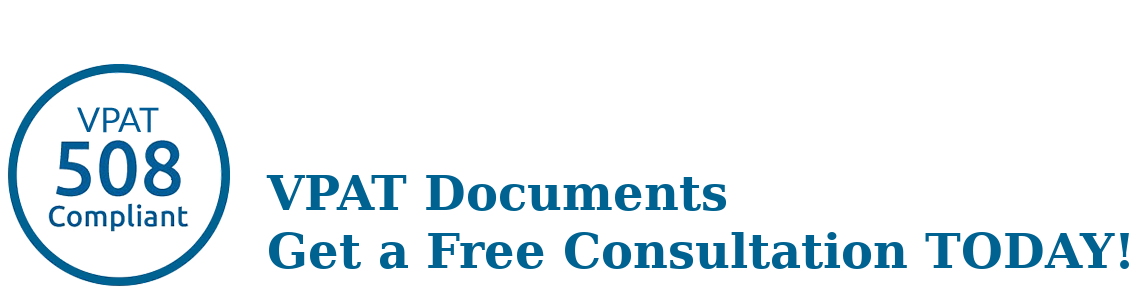
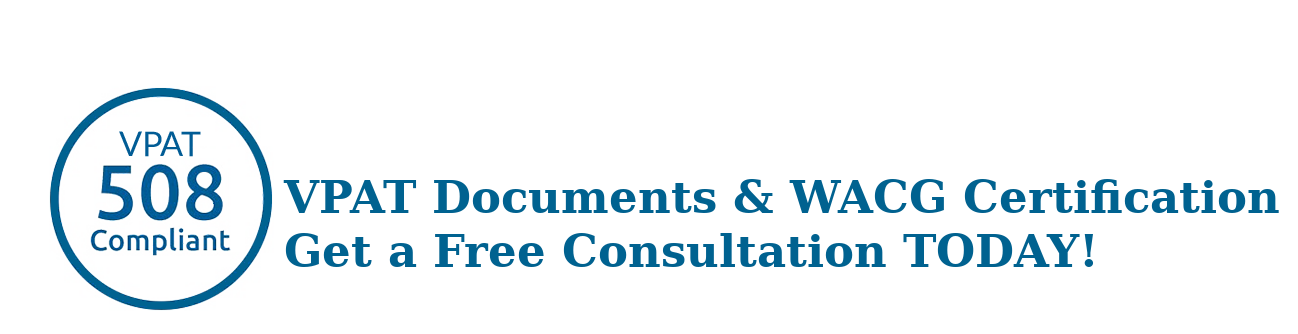
up date seo

Changed region(s): [[0.0, 0.2158, 1.0, 0.9863]]

diff --git a/_includes/index.html b/_includes/index.html
@@ -20,15 +20,16 @@
 <!-- Wrap the rest of the page in another container to center all the content. -->
 <div class="row mb-3 ml-2">
   <div class="col-md-8 offset-md-2" id="content">
-    <h1>Accessibility Evaluation and VPAT Certification</h1>
+    <h1>Accessibility Evaluation and Certification</h1>
 
-    <p class="lead">Our Web Accessibilitiy expert has been through the <a href="https://webaim.org/services/training/" target="_blank">WebAIM</a> course
-    and understands the requirments for ADA compliance with Section 508, WCAG and EU and how it pertains to website and applicating content.</p>
+    <p class="lead">Our Web Accessibilitiy expert has been through the <strong><a href="https://webaim.org/services/training/" target="_blank">WebAIM</a></strong> course
+    and understands the requirments for <strong>ADA compliance</strong> with <strong>WCAG</strong>, <strong>Section 508</strong>, and <strong>EU</strong> and how it pertains to website and applicating content.</p>
 
-    <p class="lead">At Kaffeinated Kodemonkey we use the <a href="https://www.itic.org/policy/accessibility/vpat" target="_blank">Voluntary Product Accessibility Template or VPAT</a>
-    document to offer a <strong>Certification</strong> that validates your site or application is in conformance with Section 508, WCAG, and/or EU requirments.</p>
+    <p class="lead">At Kaffeinated Kodemonkey we use the <strong><a href="https://www.itic.org/policy/accessibility/vpat" target="_blank">Voluntary Product Accessibility Template or VPAT</a></strong>
+    document for our <strong>WCAG Certifications</strong> to validate your site or application is in conformance with <strong>WCAG</strong>, <strong>Section 508</strong>, and/or <strong>EU</strong> guidlines and standerds.
+    We strive for a <strong>Level AA</strong> Compliance.</p>
 
-    <p class="lead">Get your <a href="{{ site.url }}/VPAT">Accessibility Evaluation </a> today and start <a href="{{ site.url }}/Monitoring">monitoring your accessibility</a>.</p>
+    <p class="lead">Get your <strong><a href="{{ site.url }}/VPAT">Accessibility Evaluation </a></strong> today and start <strong><a href="{{ site.url }}/Monitoring">monitoring your accessibility</a></strong>.</p>
   </div>
 </div>
 
@@ -37,7 +38,7 @@
   <div class="row">
     <div class="col-lg-4">
       <div class="card" style="width: 18rem;">
-        <img class="card-img-top" src="{{ site.url }}/assets/images/AccessibiltyImageBG.jpg" alt="VPAT Monitoring">
+        <img class="card-img-top" src="{{ site.url }}/assets/images/AccessibiltyImageBG.jpg" alt="Accessible Monitoring">
         <div class="card-body">
           <h2 class="card-title">Accessibility Monitoring</h2>
           <h3 class="card-title"><span class="small text-danger">*</span> $2495/$365 mo</h3>
@@ -46,7 +47,7 @@
             <li class="text-left">Compliance Report</li>
             <li class="text-left">How-To-Resolve</li>
             <li class="text-left">Monthly Monitoring</li>
-            <li class="text-left">VPAT Certification</li>
+            <li class="text-left">WCAG Certification</li>
             <li class="text-left">Requires 1 year contract</li>
             <div aria-hidden="ture">
               <p>&nbsp;</p>
@@ -61,15 +62,15 @@
     </div><!-- /.col-lg-4 -->
     <div class="col-lg-4">
       <div class="card shadow-lg p-3 mb-5 bg-light rounded" style="width: 20rem;">
-        <img class="card-img-top" src="{{ site.url }}/assets/images/AccessibiltyImageBG.jpg" alt="VPAT Evaluation & Certification">
+        <img class="card-img-top" src="{{ site.url }}/assets/images/AccessibiltyImageBG.jpg" alt="WCAG Evaluation & Certification">
         <div class="card-body">
-          <h2 class="card-title">VPAT Certification</h2>
+          <h2 class="card-title">WCAG Certification</h2>
           <h3 class="card-title">$2495 one-time</h3>
           <ul>
             <li class="text-left">Evaluation Audit</li>
             <li class="text-left">Compliance Report</li>
             <li class="text-left">How-To-Resolve</li>
-            <li class="text-left">VPAT Certification</li>
+            <li class="text-left">WCAG Certification</li>
             <div aria-hidden="ture">
               <p>&nbsp;</p>
               <p>&nbsp;</p>
@@ -81,7 +82,7 @@
     </div><!-- /.col-lg-4 -->
     <div class="col-lg-4">
       <div class="card" style="width: 18rem;">
-        <img class="card-img-top" src="{{ site.url }}/assets/images/AccessibiltyImageBG.jpg" alt="VPAT Evaluation">
+        <img class="card-img-top" src="{{ site.url }}/assets/images/AccessibiltyImageBG.jpg" alt="Accessible Evaluation">
         <div class="card-body">
           <h2 class="card-title">Accessibility Evaluation</h2>
           <h3 class="card-title">$695 one-time</h3>
@@ -115,7 +116,7 @@
 
       <p class="lead">Don't waste your time trying to understand how to fill out a VPAT document. We have a web accessibility expert that can do this for you.</p>
 
-      <p class="lead">We have been filling out VPAT's for all industries and know the difference between the four (4) types documents and what
+      <p class="lead">Our expert has been filling out VPAT's for all industries and understands the difference between the four (4) types documents and what
       the requirements are.</p>
 
       <div class="row">
@@ -147,7 +148,7 @@
 
   <div class="row featurette">
     <div class="col-md-7 order-md-2">
-      <h2 class="featurette-heading">Section 508 & WCAG <span class="text-muted">Explained</span></h2>
+      <h2 class="featurette-heading">WCAG & Section 508 <span class="text-muted">Explained</span></h2>
 
       <p class="lead">"Every website and online-document is required to be accessible", there is no internet police
       monitoring every site for compliance and issuing tickets however, there are pending mitigations.</p>
@@ -157,11 +158,11 @@
       instructions against you so why not follow them now.</p>
 
 
-      <p><a href="{{ site.url}}/508" class="btn btn-md btn-primary">Understanding 508 & WCAG</a></p>
+      <p><strong><a href="{{ site.url}}/508" class="btn btn-md btn-primary">Understanding WCAG & Section 508</a></strong></p>
 
     </div>
     <div class="col-md-5 order-md-1 mt-5 pt-5">
-      <img class="featurette-image img-fluid mx-auto" src="{{ site.url }}/assets/images/SECTION508-705x382.png" alt="Understading 508 & WCAG">
+      <img class="featurette-image img-fluid mx-auto" src="{{ site.url }}/assets/images/SECTION508-705x382.png" alt="Understading WCAG & Section 508">
     </div>
   </div>
 
@@ -169,7 +170,7 @@
 
   <div class="row featurette">
     <div class="col-md-7">
-      <h2 class="featurette-heading">Accessibility Monitoring <span class="text-muted">Stay in the know</span></h2>
+      <h2 class="featurette-heading">Accessibility Monitoring <span class="text-muted"> <br />Stay in the know</span></h2>
 
       <p class="lead">Don't Stop at an Evaluation or Certification, monitor your site and stay on top of compliance issue with a monthly Compliance
       Report.</p>
@@ -189,7 +190,7 @@
   <hr class="featurette-divider">
   <div class="row featurette">
     <div class="col-md-7  order-md-2">
-      <h2 class="featurette-heading">What are the Benefits? <span class="text-muted">See for yourself.</span></h2>
+      <h2 class="featurette-heading">What are the Benefits? <span class="text-muted"><br />See for yourself.</span></h2>
 
       <p class="lead">Web Accessibility is a great place to start to improve your marketing and SEO strategies.
       Globally people with disabilities have a $9 Billion dollar disposable income. Why would you not take part in this?</p>

diff --git a/VPAT.html b/VPAT.html
@@ -3,44 +3,46 @@ layout: page-template
 title: VPAT Evaluation and Certification
 category: VPAT
 image: VPAT-Documents.png
-caption: VPAT Documents - Get a Free Consultation Today!
+alt: WCAG Certification
+caption: WCAG Certification & VPAT Documents - Get a Free Consultation Today!
 description: VPAT Compliant. We fill out VPAT Documents and offer Accessibility Certifications.
 ---
 
-<h1>Overview</h1>
+<h1>VPAT Document</h1>
 
-<p>Our expertise lies in accessibility driven development. Whether we are designing a website or Evaluating for a VPAT Certification we always
-use POUR design principals by WCAG to meets accessibility requirements.</p>
+<p>Our expertise lies in accessibility driven development. Whether we are designing a website or Evaluating for a <strong>WCAG</strong> Certification we always
+use <span class="text-uppercase"><strong><em><a href="https://www.kaffeinatedkodemonkey.com/faq#collapseThree">POUR</a></em></strong></span> design principals by <strong>WCAG</strong> to meets accessibility requirements.</p>
 
-<p>The Voluntary Product Accessibility Template (VPAT), it is used to evaluate accessibility standards for Section 508 (U.S.), EN 301 549 (EU), and W3C/WAI WCAG.
+<p>We use the <span class="text-dark">Voluntary Product Accessibility Template (VPAT)</span>, for our <strong>WCAG</strong> Certifications that follows the accessibility standards for Section 508 (U.S.), EN 301 549 (EU), and W3C/WAI <strong>WCAG</strong>.
 Some companies are required to fill out a VPAT before they can release a new product, others may need one to Certify that they have met the Accessibility
 requirements. We use the VPAT to certify that our sites are ADA compliant.</p>
 
-<h2>Accessibility Evaluation</h2>
+<h1>Accessibility Evaluation</h1>
 
-<p>A VPAT Evaluation is a process we use to examine your site and verify that accessibility standards have been satisfied to level AA.
+<p>An Accessibility Evaluation is a process we use to examine your site and verify that accessibility standards have been satisfied to level AA.
 During this process, we will crawl your site, use evaluation tools, as-well-as manually go through the site using assistive technologies.
-We test the site for hands-free access, vision impairedness, low-vision, color-blind, learning disabilities, deafness or low-hearing, just to name a few</p>
+We test the site for hands-free access, vision impairedness, low-vision, color-blind, learning disabilities, deafness or low-hearing, just to name a few.</p>
 
-<h2>VPAT Certification</h2>
+<h1>WCAG Certification</h1>
 <p>Our certification process is easy. After we complete an evaluation we use one of the four (4) VPAT documents to Certifications your site meets the
-required standards and is in compliance with Sections 508, EU, or WCAG. </p>
+required standards and is in compliance with <strong>WCAG</strong>, Sections 508, and/or EU. </p>
 
 <ul>
-  <li><strong>VPAT 508 Certification</strong>: U.S. Federal accessibility standard for 508 Compliance</li>
-  <li><strong>VPAT EU Certification</strong>: European Union’s Accessibility requirements for EU compliance</li>
-  <li><strong>VPAT WCAG Certification</strong>: W3C/WAI’s Web Content Accessibility Guideline for WCAG compliance</li>
-  <li><strong>VPAT Full Certification</strong>: Incorporates all three of the above standards for Full Compliance</li>
+  <li><strong>WCAG 508 Certification</strong>: U.S. Federal accessibility standard for 508 Compliance</li>
+  <li><strong>WCAG EU Certification</strong>: European Union’s Accessibility requirements for EU compliance</li>
+  <li><strong>WCAG Certification</strong>: W3C/WAI’s Web Content Accessibility Guideline for <strong>WCAG</strong> compliance</li>
+  <li><strong>WCAG Full Certification</strong>: Incorporates all three of the above standards for Full Compliance</li>
 </ul>
 
-<p>All VPAT® Certifications contain:</p>
+<h2>WCAG Certifications contain:</h2>
 <ul>
-  <li>Product Description that describes the product</li>
+  <li>Full Evaluation of the site with a How-To-Fi</li>
   <li>Evaluation Methods used to test the product’s accessibility</li>
   <li>Notes to provide additional details concerning the product tested and the evaluation methods</li>
 </ul>
 
-<p>We provide a PDF you can display on your website for download or send to users upon request.</p>
+<p>We provide a PDF stamped with one of our certification logos intcating the level of certifiication your
+site has recive. You can display the PDF on your website for download or send to users upon request.</p>
 
 <h2>Contact Us</h2>
 

diff --git a/_includes/head.html b/_includes/head.html
@@ -8,11 +8,11 @@
   <head>
     <meta charset="utf-8">
     <meta name="viewport" content="width=device-width, initial-scale=1, shrink-to-fit=no">
-    <meta name="description" content="">
+    <meta name="description" content="{% if page.description %}{{ page.description }} {% else %}We offer Accessibility Testing, WCAG Certifications and VPAT Documentation{% endif %}">
     <meta name="author" content="">
     <link rel="icon" href="{{ site.url }}/assets/images/favicon.ico">
 
-    <title>{{site.title}} | {% if page.title %}{{ page.title }}{% else %}Accessibility Testing{% endif %}</title>
+    <title>{% if page.title %}{{ page.title }} {% else %}Accessibility Testing{% endif %} | Kaffeinated Kodemonkey</title>
 
     <!-- Bootstrap core CSS -->
     <link rel="stylesheet" href="https://stackpath.bootstrapcdn.com/bootstrap/4.1.3/css/bootstrap.min.css" integrity="sha384-MCw98/SFnGE8fJT3GXwEOngsV7Zt27NXFoaoApmYm81iuXoPkFOJwJ8ERdknLPMO" crossorigin="anonymous">

diff --git a/508.html b/508.html
@@ -1,9 +1,11 @@
 ---
 layout: page-template
-title: Section 508 & WCAG
+title: VPAT 508 Compliance
 category: Web Accessibility
 caption: Understading 508 & WCAG
+description: What is Secion 508 & WCAG and what does it all mean
 image: Section508.png
+alt: Section 508 Requirments
 ---
 
 <h1>What is Section 508</h1>
@@ -42,5 +44,5 @@ page or web application, including:</p>
 
 <h2>Contact Us</h2>
 
-<p>VPAT Certification and Evaluations. Will your site pass the WCAG standards? Find out and start fixing them <span class="text-uppercase text-danger">TODAY</span>!</p>
+<p>WCAG Certification and Evaluations. Will your site pass the WCAG standards? Find out and start fixing them <span class="text-uppercase text-danger">TODAY</span>!</p>
 <p><a class="btn btn-md btn-info" href="https://kaffeinatedkodemonkey.youcanbook.me/" target="_blank" role="button">Talk to an Accessibility Expert TODAY!</a></p>

diff --git a/Monitoring.html b/Monitoring.html
@@ -30,9 +30,9 @@ and how to improve them. Know which Accessibility issues your team/organization 
 508 & WCAG standards. With this level of experience, we thought it was only logical to help you monitor your accessibility and keep you compliant.</p>
 
 
-<p>We include a <a href="{{site.url}}/VPAT">VPAT Certification</a> with our Monitoring packages so you can rest assured your site is compliant.</p>
+<p>We include a <a href="{{site.url}}/VPAT">WCAG Certification</a> with our Monitoring packages so you can rest assured your site is compliant.</p>
 
 <h2>Contact Us</h2>
 
-<p>Start Monitoring your accessibility and get a VPAT Certified.</p>
+<p>Start Monitoring your accessibility and get a WCAG Certified.</p>
 <p><a class="btn btn-md btn-info" href="https://kaffeinatedkodemonkey.youcanbook.me/" target="_blank" role="button">Talk to an Accessibility Expert TODAY!</a></p>

diff --git a/_layouts/page-template.html b/_layouts/page-template.html
@@ -8,9 +8,9 @@
           <h2 class="sr-only">{{ page.caption }}<h2>
           <figure>
             {% if page.title == "Accessibilty News & Resorces" %}
-              <img class="img-fluid" src="{{ site.url }}/assets/images/{{ page.image }}" alt="{{ page.title }}">
+              <img class="img-fluid" src="{{ site.url }}/assets/images/{{ page.image }}" alt="{{ page.alt }}">
               {% else %}
-                <img class="img-fluid" src="{{ site.url }}/assets/images/{{ page.image }}" style="width: 80%;" alt="{{ page.title }}">
+                <img class="img-fluid" src="{{ site.url }}/assets/images/{{ page.image }}" style="width: 80%;" alt="{{ page.alt }}">
               {% endif %}
           </figure>
         </div>

diff --git a/_includes/header.html b/_includes/header.html
@@ -34,6 +34,11 @@
           <a class="nav-link" href="{{ site.url }}/Blog">News/Resources</a>
         </li>
       </ul>
+      <form class="form-inline my-2 my-lg-0">
+        <p class="mt-3 mr-3 text-info"><strong>Get a free page Evaluation</strong></p>
+      <input class="form-control mr-sm-2" type="search" placeholder="Free Evaluation" aria-label="Search">
+      <button class="btn btn-outline-info my-2 my-sm-0" type="submit">Evauation</button>
+    </form>
 
     </div>
   </nav>

diff --git a/_includes/wave-tool.html b/_includes/wave-tool.html
@@ -1,0 +1,14 @@
+
+<form action="" method="post">
+  <div class="form-group row">
+    <label for="url" class="col-sm-1 col-form-label">URL:</label>
+    <div class="col-sm-11">
+      <input type="text" class="form-control" id="url" name="url" placeholder="Enter the URL of page to evaluate">
+    </div>
+  </div>
+  <div class="form-group row">
+    <div class="offset-md-8 col-sm-2">
+      <button type="submit" class="btn btn-info">Evaluate Me!</button>
+    </div>
+  </div>
+</form>

diff --git a/VPAT-Newsletter.html b/VPAT-Newsletter.html
@@ -3,6 +3,7 @@ layout: page-template
 title: VPAT Newsletter
 category: news, Resorces
 image: NewsResources.png
+alt: Accessibilty News and Resorces
 caption: Accessibility Monitoring - Get a Free Consultation Today!
 description: Updates and Resources for Accessibilty in a digital world!
 ---
